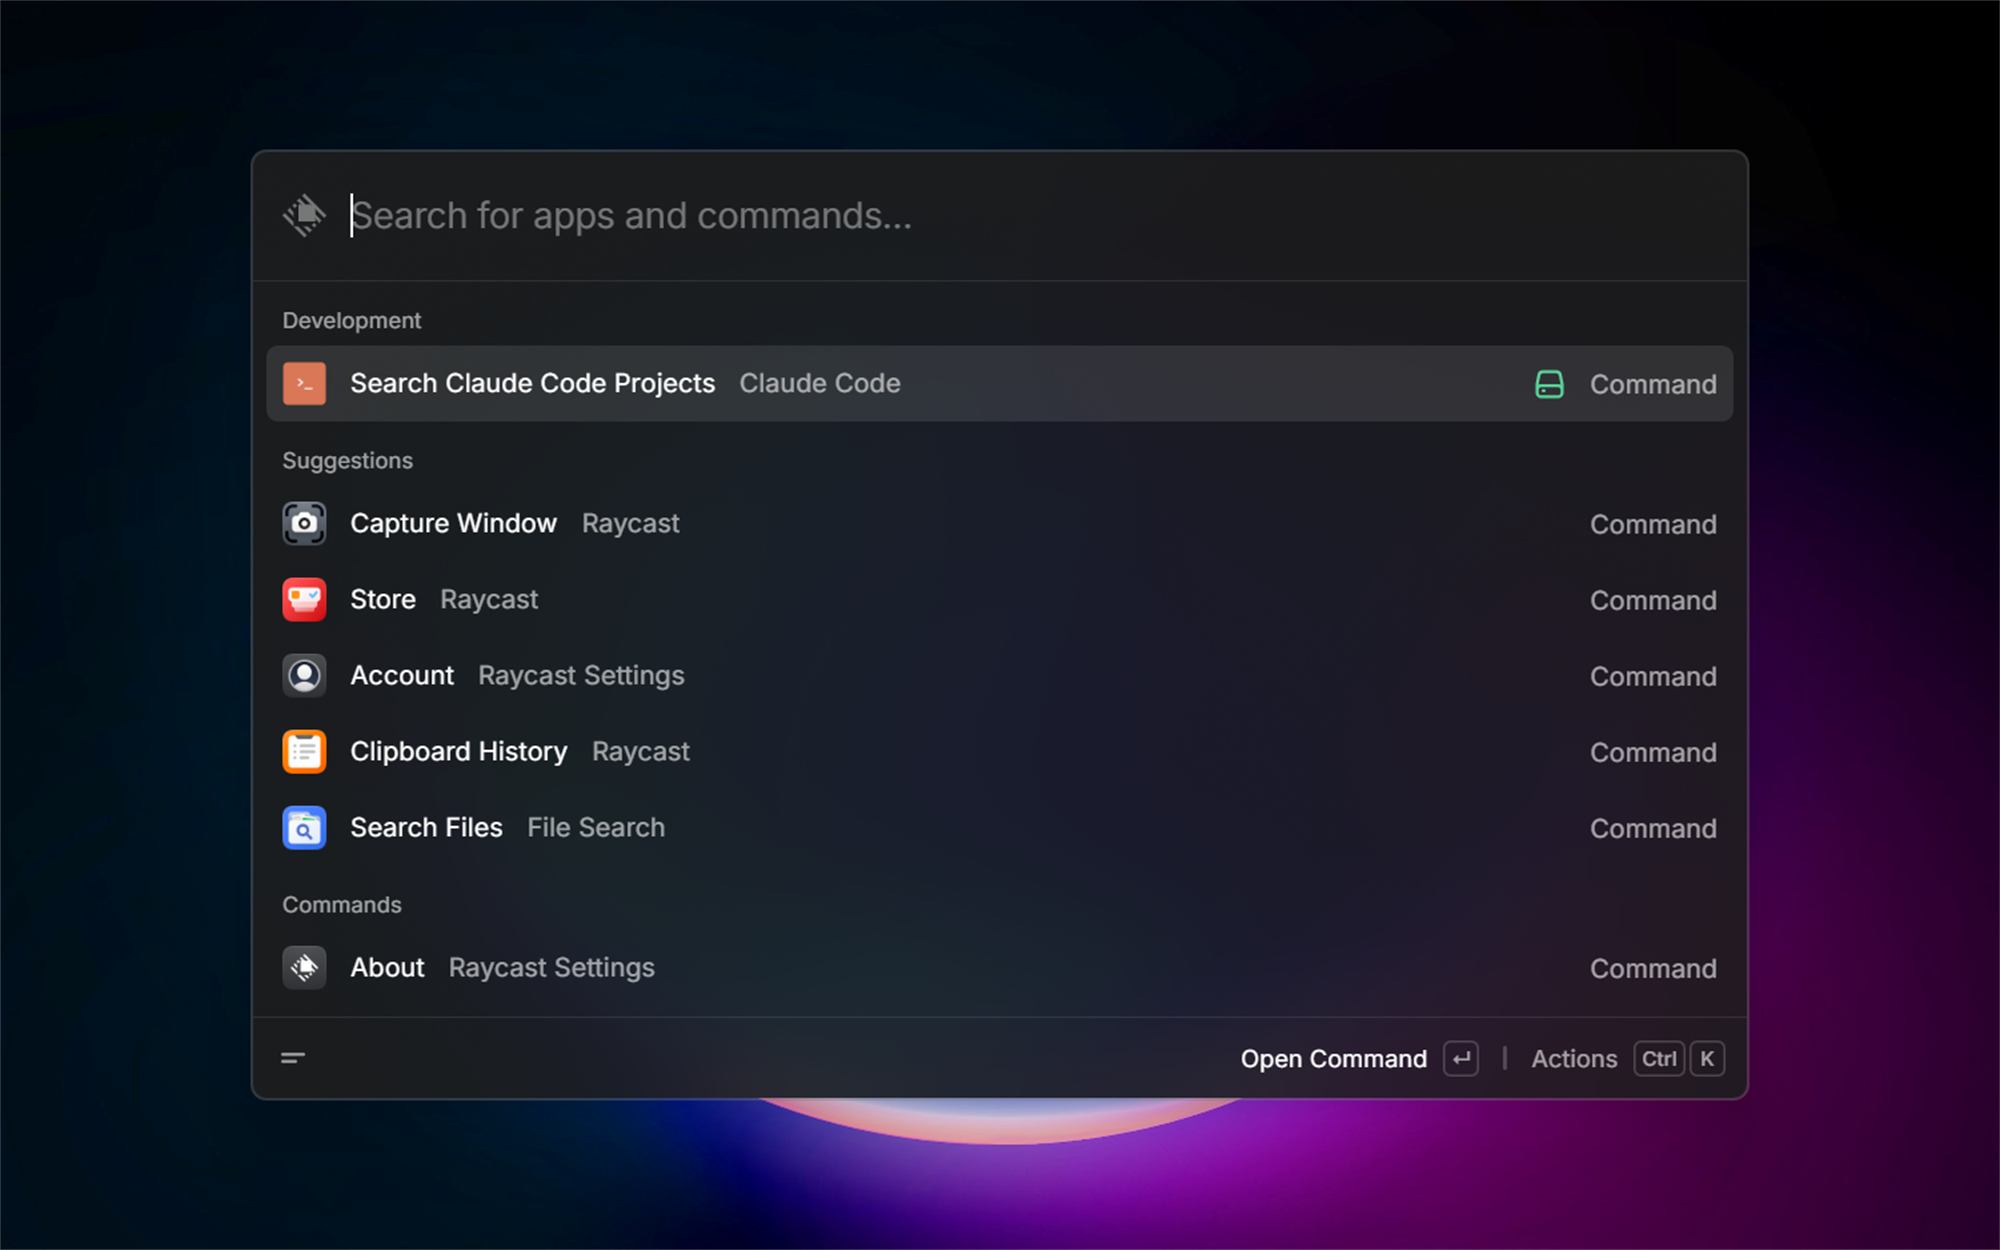
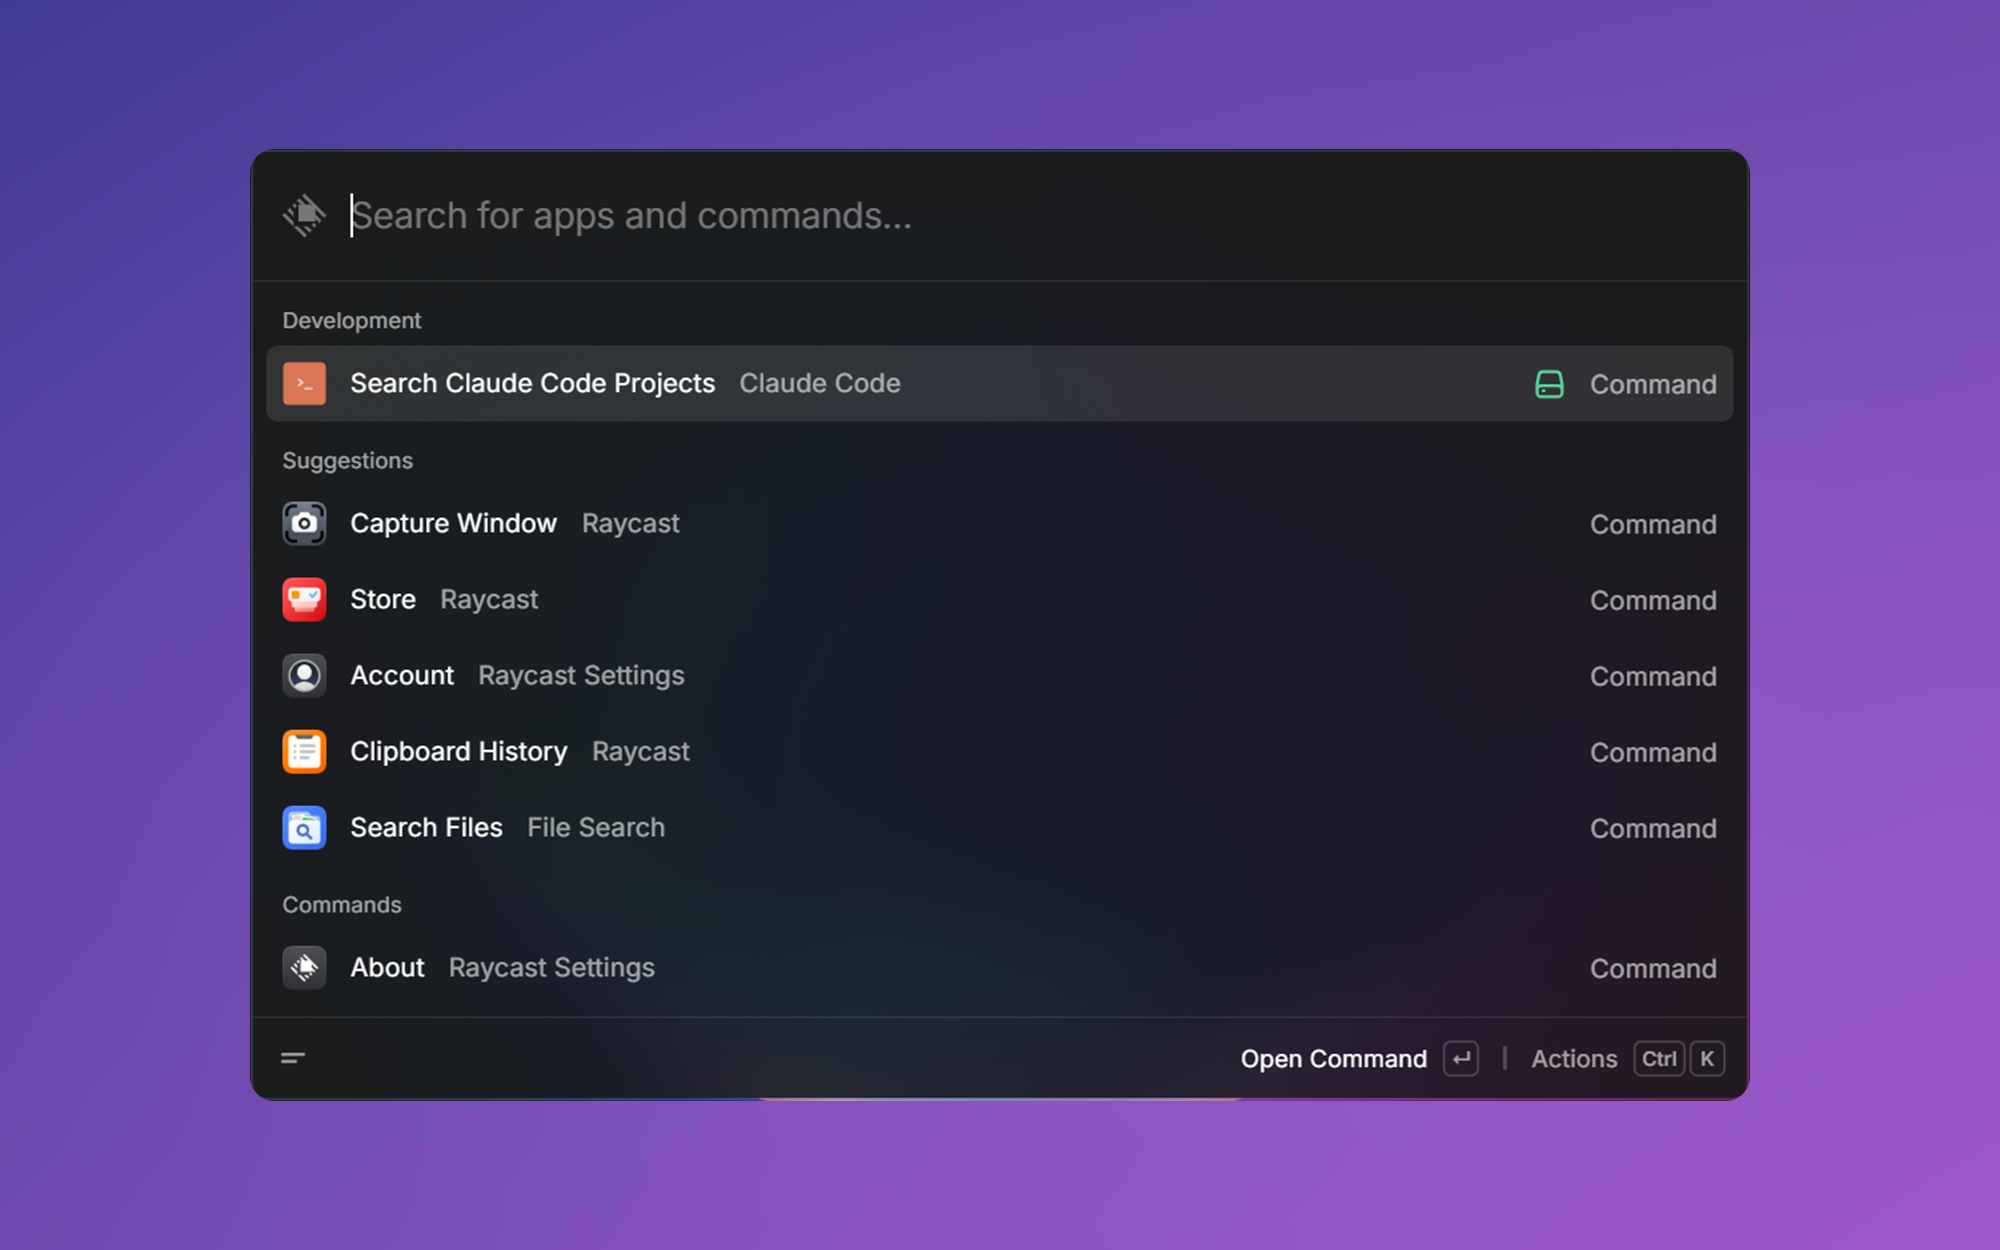
fix: apply PR #30100 review feedback
- Quote-aware claudeArgs tokenizer plus per-shell quoting (psQuote/cmdQuote)
- cmd launches go through a per-launch batch file so %, spaces and shell
  metacharacters reach claude intact and overlapping launches cannot race
- Use the generated Preferences type; include raycast-env.d.ts in tsconfig
- Recompose metadata images over a higher-contrast background to satisfy
  the Raycast metadata image validator (~12% padding detection)

diff --git a/src/terminal.ts b/src/terminal.ts
@@ -1,6 +1,8 @@
 import { execFile, spawn } from "child_process";
+import { randomUUID } from "crypto";
 import { promisify } from "util";
 import fs from "fs";
+import os from "os";
 import path from "path";
 import {
   closeMainWindow,
@@ -10,11 +12,6 @@ import {
 } from "@raycast/api";
 
 const execFileAsync = promisify(execFile);
-
-interface Preferences {
-  terminal: "windowsTerminal" | "pwsh" | "powershell" | "cmd";
-  claudeArgs: string;
-}
 
 /**
  * Raycast may carry a stale PATH (captured when its process started) and child
@@ -86,14 +83,101 @@ function psQuote(value: string): string {
   return `'${value.replace(/'/g, "''")}'`;
 }
 
+/**
+ * Splits the free-form claudeArgs preference into argv tokens, honouring
+ * double and single quotes so values with spaces survive intact
+ * (e.g. --add-dir "C:\My Projects").
+ */
+function splitArgs(input: string): string[] {
+  const tokens: string[] = [];
+  let current = "";
+  let quote: '"' | "'" | null = null;
+  let inToken = false;
+  for (const ch of input) {
+    if (quote) {
+      if (ch === quote) quote = null;
+      else current += ch;
+    } else if (ch === '"' || ch === "'") {
+      quote = ch;
+      inToken = true;
+    } else if (/\s/.test(ch)) {
+      if (inToken) tokens.push(current);
+      current = "";
+      inToken = false;
+    } else {
+      current += ch;
+      inToken = true;
+    }
+  }
+  if (inToken) tokens.push(current);
+  return tokens;
+}
+
+/**
+ * Quotes one argument for the cmd branch. Wrapping in double quotes keeps
+ * whitespace and metacharacters (& | ; ...) literal; embedded double quotes
+ * are dropped because they are illegal in Windows paths and cannot be
+ * escaped reliably through cmd's start.
+ */
+function cmdQuote(value: string): string {
+  const cleaned = value.replace(/"/g, "");
+  return cleaned === "" || /[\s&|<>^()%!;=,]/.test(cleaned)
+    ? `"${cleaned}"`
+    : cleaned;
+}
+
+const LAUNCH_SCRIPT_PREFIX = "claude-code-projects-launch-";
+
+/**
+ * A literal % cannot be escaped on the cmd command line: quoting does not
+ * stop %NAME% expansion and %% only escapes inside batch scripts — and here
+ * the command would cross two cmd layers (the outer `cmd /s /c "start ..."`
+ * plus the inner `cmd /k`). Writing the claude call to a batch file, where
+ * %% reliably yields a literal %, keeps the arguments out of both parsers.
+ *
+ * Each launch gets its own file so overlapping launches cannot overwrite one
+ * another before the (asynchronous) inner cmd reads the script. Scripts from
+ * past launches are deleted after a day — long enough that their sessions
+ * have read them, since cmd only re-reads the file after claude exits.
+ */
+function writeCmdLaunchScript(claudeCall: string): string {
+  const dir = os.tmpdir();
+  try {
+    const cutoff = Date.now() - 24 * 60 * 60 * 1000;
+    for (const name of fs.readdirSync(dir)) {
+      if (!name.startsWith(LAUNCH_SCRIPT_PREFIX) || !name.endsWith(".cmd")) {
+        continue;
+      }
+      const full = path.join(dir, name);
+      try {
+        if (fs.statSync(full).mtimeMs < cutoff) fs.unlinkSync(full);
+      } catch {
+        // already gone or inaccessible — cleanup is best-effort
+      }
+    }
+  } catch {
+    // cleanup is best-effort
+  }
+  const scriptPath = path.join(
+    dir,
+    `${LAUNCH_SCRIPT_PREFIX}${randomUUID()}.cmd`,
+  );
+  fs.writeFileSync(
+    scriptPath,
+    `@echo off\r\n${claudeCall.replace(/%/g, "%%")}\r\n`,
+  );
+  return scriptPath;
+}
+
 function encodedStartupScript(
   realPathString: string,
   claudeExe: string | null,
   args: string[],
 ): string {
+  const quotedArgs = args.map(psQuote).join(" ");
   const claudeCall = claudeExe
-    ? `& ${psQuote(claudeExe)} ${args.join(" ")}`.trim()
-    : ["claude", ...args].join(" ");
+    ? `& ${psQuote(claudeExe)} ${quotedArgs}`.trim()
+    : `claude ${quotedArgs}`.trim();
   const script = [
     `$env:Path = ${psQuote(realPathString)}`,
     "if (Test-Path $PROFILE) { . $PROFILE }",
@@ -169,11 +253,7 @@ export async function launchClaude(
   if (cwd.includes('"')) return; // invalid Windows path; avoids breaking the shell
 
   const { terminal, claudeArgs } = getPreferenceValues<Preferences>();
-  const extra = (claudeArgs ?? "")
-    .replace(/["'\r\n]/g, "")
-    .split(/\s+/)
-    .filter(Boolean);
-  const args = [...baseArgs, ...extra];
+  const args = [...baseArgs, ...splitArgs(claudeArgs ?? "")];
 
   const pathString = await realPath();
   const claudeExe = findClaude(pathString);
@@ -203,10 +283,18 @@ export async function launchClaude(
       );
       break;
     case "cmd": {
-      const claudeCall = claudeExe
-        ? `"${claudeExe}" ${args.join(" ")}`.trim()
-        : ["claude", ...args].join(" ");
-      runInNewWindow(`cmd /k ${claudeCall}`, cwd, env, "cmd not found.");
+      const claudeCall = [
+        claudeExe ? cmdQuote(claudeExe) : "claude",
+        ...args.map(cmdQuote),
+      ].join(" ");
+      let script: string;
+      try {
+        script = writeCmdLaunchScript(claudeCall);
+      } catch {
+        onFail("Could not write the launch script to the temp folder.")();
+        return;
+      }
+      runInNewWindow(`cmd /k "${script}"`, cwd, env, "cmd not found.");
       break;
     }
     case "windowsTerminal":
